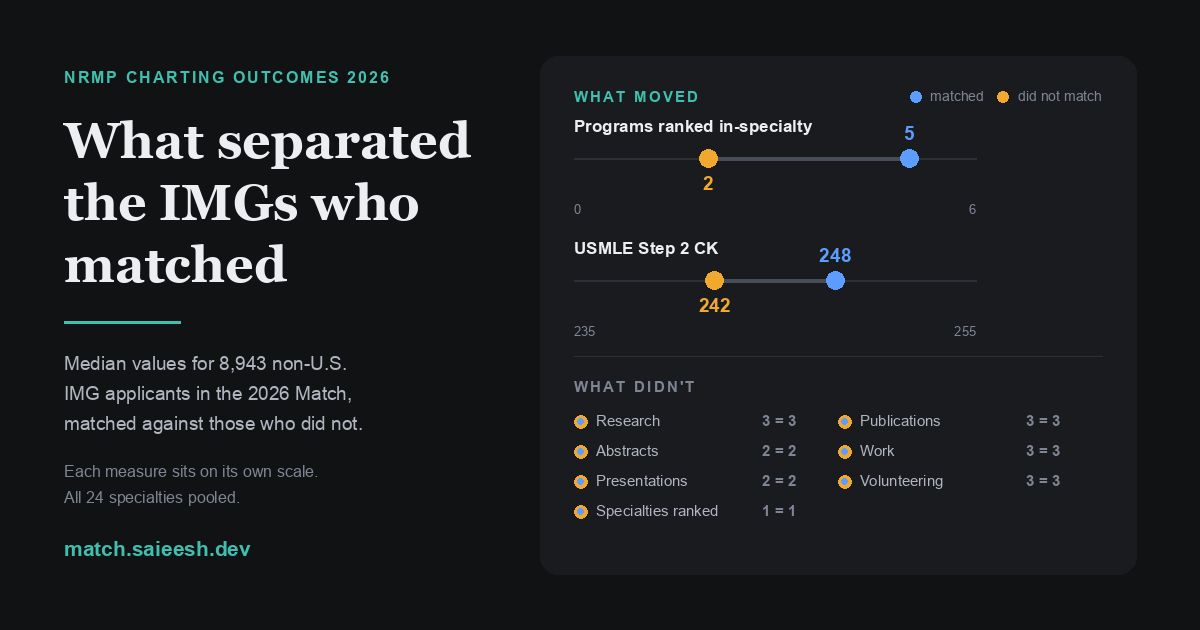
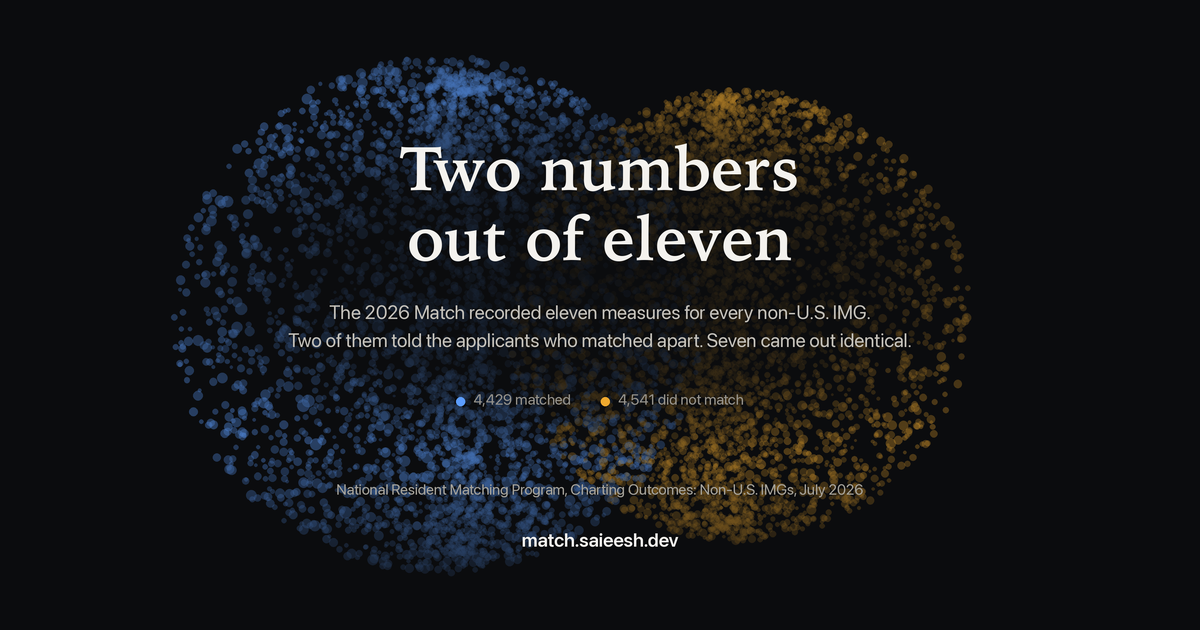
Rebuild the OG card as the hero, in the fonts the site actually renders
The card was set in Georgia and Arial. Neither reaches a visitor: the
site's --serif stack resolves to Iowan Old Style and --sans resolves to
SF Pro through -apple-system, so Georgia sat fourth and Arial seventh.
Both real faces are now loaded directly, Iowan Old Style Bold for the
headline and SF Pro Regular and Semibold for everything else.

The card also now shows what the page opens with rather than a chart
about it. The particle field is the same construction as src/hero.js:
8,970 points, one per consented applicant, on a Fibonacci sphere at the
same golden angle and radii, interpolated toward two separated masses
through the same perspective camera. Headline updated to eleven.

Drawn at 3x and downsampled. Drawing in RGBA mode is what lets 8,970
overlapping dots blend rather than overwrite; the scrim is computed
small and scaled up.

og:image:alt rewritten, since it still described the old dot plots.

diff --git a/index.html b/index.html
@@ -13,7 +13,7 @@
 <meta property="og:image" content="https://match.saieesh.dev/og-image.png">
 <meta property="og:image:width" content="1200">
 <meta property="og:image:height" content="630">
-<meta property="og:image:alt" content="Two dot plots showing the measures that separated matched from unmatched non-U.S. IMGs: programs ranked in-specialty, 5 versus 2, and USMLE Step 2 CK, 248 versus 242. Seven further measures, including research, publications and abstracts, are listed as identical in both groups.">
+<meta property="og:image:alt" content="The site's title card. A field of 8,970 dots, one per consented applicant, pulled into two masses: 4,429 blue for the applicants who matched and 4,541 amber for those who did not. The headline reads, Two numbers out of eleven.">
 <meta name="twitter:card" content="summary_large_image">
 <meta name="twitter:title" content="Two numbers out of eleven">
 <meta name="twitter:description" content="Every non-U.S. IMG in the 2026 Match, by preferred specialty. Two measures separated those who matched from those who did not.">
@@ -395,8 +395,8 @@ footer a{color:var(--ink-2)}
     <div class="shead">
       <h2>All 24 specialties, ranked</h2>
       <p>
-        <strong>Click any row to open the full distribution for that specialty: all eleven measures, matched
-        against unmatched, with quartiles and ranges wherever NRMP reports them. Sort by any column.</strong>
+        Click any row to open the full distribution for that specialty: all eleven measures, matched
+        against unmatched, with quartiles and ranges wherever NRMP reports them. Sort by any column.
       </p>
     </div>
 
@@ -419,7 +419,7 @@ footer a{color:var(--ink-2)}
 
     <div class="tablescroll">
       <table>
-        <caption class="vis-hidden">Non-U.S. IMG match outcomes by preferred specialty. <strong>Click a row for detail.</strong> </caption>
+        <caption class="vis-hidden">Non-U.S. IMG match outcomes by preferred specialty. Click a row for detail.</caption>
         <thead><tr id="specHead"></tr></thead>
         <tbody id="specBody"></tbody>
       </table>

diff --git a/src/template.html b/src/template.html
@@ -13,7 +13,7 @@
 <meta property="og:image" content="https://match.saieesh.dev/og-image.png">
 <meta property="og:image:width" content="1200">
 <meta property="og:image:height" content="630">
-<meta property="og:image:alt" content="Two dot plots showing the measures that separated matched from unmatched non-U.S. IMGs: programs ranked in-specialty, 5 versus 2, and USMLE Step 2 CK, 248 versus 242. Seven further measures, including research, publications and abstracts, are listed as identical in both groups.">
+<meta property="og:image:alt" content="The site's title card. A field of 8,970 dots, one per consented applicant, pulled into two masses: 4,429 blue for the applicants who matched and 4,541 amber for those who did not. The headline reads, Two numbers out of eleven.">
 <meta name="twitter:card" content="summary_large_image">
 <meta name="twitter:title" content="Two numbers out of eleven">
 <meta name="twitter:description" content="Every non-U.S. IMG in the 2026 Match, by preferred specialty. Two measures separated those who matched from those who did not.">

diff --git a/make-og-image.py b/make-og-image.py
@@ -1,137 +1,194 @@
-"""Open Graph card: the finding itself, drawn as small multiples.
+"""Open Graph card: the hero, rendered as a still.
 
-Two measures moved and seven did not. Each mover gets its own dot plot on its own
-labelled scale — no shared axis, no truncated bars, so the visual claim stays the
-honest one: these two separated, those seven landed on the same number.
+The card used to be a small-multiples chart in Georgia and Arial. Neither font
+appears on the site: the CSS stack resolves to Iowan Old Style for display and
+to SF Pro through -apple-system for everything else, so the card was set in
+two typefaces no visitor ever sees. It now uses the fonts the page actually
+renders with, and shows what the page actually opens with.
+
+The particle field is the same construction as src/hero.js: one point per
+consented applicant, 4,429 matched and 4,541 not, placed on a Fibonacci sphere
+and interpolated toward two separated masses. Same golden angle, same radii,
+same split distance, same perspective camera, so the still and the live hero
+are the same picture.
+
+Everything is drawn at SS times final size and downsampled, which is what gives
+the dots and the type their edges.
+
+    python3 make-og-image.py
 """
+import math
+import random
 from PIL import Image, ImageDraw, ImageFont
 
-W, H   = 1200, 630
-BG     = (17, 18, 20)
-PANEL  = (25, 27, 31)
-INK    = (236, 238, 242)
-INK2   = (176, 181, 192)
-INK3   = (126, 133, 147)
-ACCENT = (63, 191, 174)
-BLUE   = (92, 157, 255)
-AMBER  = (240, 169, 46)
-RULE   = (44, 47, 54)
+W, H = 1200, 630
+SS = 3                                   # supersample factor
+CW, CH = W * SS, H * SS
 
-SUPP = "/System/Library/Fonts/Supplemental/"
-serif = lambda s: ImageFont.truetype(SUPP + "Georgia Bold.ttf", s)
-sans  = lambda s: ImageFont.truetype(SUPP + "Arial.ttf", s)
-bold  = lambda s: ImageFont.truetype(SUPP + "Arial Bold.ttf", s)
+BG       = (11, 12, 14)
+INK      = (244, 242, 238)
+INK_SUB  = (195, 192, 185)
+INK_KEY  = (150, 147, 140)
+INK_META = (166, 163, 155)
+BLUE     = (92, 157, 255)
+AMBER    = (240, 169, 46)
 
-img = Image.new("RGB", (W, H), BG)
+IOWAN = "/System/Library/Fonts/Supplemental/Iowan Old Style.ttc"
+SFNS  = "/System/Library/Fonts/SFNS.ttf"
+
+
+def serif(size):
+    """Iowan Old Style Bold — first face in the site's --serif stack."""
+    return ImageFont.truetype(IOWAN, int(size * SS), index=1)
+
+
+def sans(size, weight="Regular"):
+    """SF Pro, which is what -apple-system resolves to on the site."""
+    f = ImageFont.truetype(SFNS, int(size * SS))
+    try:
+        f.set_variation_by_name(weight)
+    except Exception:
+        pass
+    return f
+
+
+# ───────────────────────── the particle field ─────────────────────────
+N_MATCHED, N_UNMATCHED = 4429, 4541
+N = N_MATCHED + N_UNMATCHED
+SPLIT, R_ONE, R_TWO = 6.4, 7.8, 4.9
+GOLDEN = 2.399963229728653
+MIX = 0.58            # 0 = one mixed cloud, 1 = two separated masses
+ROT_Y = 0.28          # a little turn, so it does not read as a flat disc
+
+
+def fib(i, n, radius):
+    y = 1 - (i / (n - 1)) * 2
+    r = math.sqrt(max(0.0, 1 - y * y))
+    th = i * GOLDEN
+    return [math.cos(th) * r * radius, y * radius, math.sin(th) * r * radius]
+
+
+def build_points():
+    rnd = random.Random(20260809)
+    flags = [1] * N_MATCHED + [0] * (N - N_MATCHED)
+    rnd.shuffle(flags)
+
+    pts = []
+    mi = ui = 0
+    for i in range(N):
+        a = fib(i, N, R_ONE)
+        if flags[i]:
+            b = fib(mi, N_MATCHED, R_TWO); b[0] -= SPLIT; mi += 1
+        else:
+            b = fib(ui, N_UNMATCHED, R_TWO); b[0] += SPLIT; ui += 1
+        p = [a[k] + (b[k] - a[k]) * MIX for k in range(3)]
+        pts.append((p, flags[i], 0.7 + rnd.random() * 1.25))
+    return pts
+
+
+def draw_field(img):
+    d = ImageDraw.Draw(img, "RGBA")      # RGBA mode makes ellipse() alpha-blend
+    cam_z, fov = 17.5, 52.0
+    f = 1.0 / math.tan(math.radians(fov) / 2)
+    aspect = W / H
+    cy, sy = math.cos(ROT_Y), math.sin(ROT_Y)
+
+    projected = []
+    for (p, matched, size) in build_points():
+        x, y, z = p
+        x, z = x * cy + z * sy, -x * sy + z * cy      # rotate about Y
+        mvz = z - cam_z
+        depth = -mvz
+        if depth <= 0.2:
+            continue
+        sx = ((f / aspect) * x / depth * 0.5 + 0.5) * CW
+        sy_ = (1 - (f * y / depth * 0.5 + 0.5)) * CH
+        r = size * (118.0 / depth) * 0.5 * SS * 0.62
+        t = min(max((depth - 6.0) / 22.0, 0.0), 1.0)
+        alpha = int(255 * (0.58 + (0.13 - 0.58) * t))
+        projected.append((depth, sx, sy_, r, matched, alpha))
+
+    projected.sort(key=lambda q: -q[0])               # far to near
+    for _, sx, sy_, r, matched, alpha in projected:
+        col = BLUE if matched else AMBER
+        d.ellipse([sx - r, sy_ - r, sx + r, sy_ + r], fill=col + (alpha,))
+
+
+# ───────────────────────── the scrim ─────────────────────────
+def scrim():
+    """The hero's veil: a radial mask over the centre plus a top/bottom fade.
+
+    Computed small and scaled up; both gradients are smooth so nothing is lost
+    and it avoids evaluating six million pixels in Python.
+    """
+    sw, sh = 240, 126
+    layer = Image.new("L", (sw, sh), 0)
+    px = layer.load()
+    for j in range(sh):
+        v = j / (sh - 1)
+        # vertical: .75 at the top, clear through the middle, .90 at the foot
+        if v < 0.22:
+            lin = 0.75 * (1 - v / 0.22)
+        elif v > 0.60:
+            lin = 0.94 * ((v - 0.60) / 0.40)
+        else:
+            lin = 0.0
+        for i in range(sw):
+            u = i / (sw - 1)
+            dx = (u - 0.50) / 0.58
+            dy = (v - 0.44) / 0.46
+            rr = math.sqrt(dx * dx + dy * dy)
+            if rr >= 1.0:
+                rad = 0.0
+            elif rr <= 0.38:
+                rad = 0.93 - (0.93 - 0.78) * (rr / 0.38)
+            elif rr <= 0.66:
+                rad = 0.78 - (0.78 - 0.28) * ((rr - 0.38) / 0.28)
+            else:
+                rad = 0.28 * (1 - (rr - 0.66) / 0.34)
+            px[i, j] = int(255 * min(1.0, max(lin, rad)))
+    return layer.resize((CW, CH), Image.LANCZOS)
+
+
+# ───────────────────────── compose ─────────────────────────
+img = Image.new("RGB", (CW, CH), BG)
+draw_field(img)
+img = Image.composite(Image.new("RGB", (CW, CH), BG), img, scrim())
 d = ImageDraw.Draw(img)
 
 
-def tracking(xy, text, font, fill, extra=1.6):
-    """Letter-spaced small caps; PIL has no tracking of its own."""
-    x, y = xy
-    for ch in text:
-        d.text((x, y), ch, font=font, fill=fill)
-        x += d.textlength(ch, font=font) + extra
-    return x
+def centered(y, s, font, fill):
+    w = d.textlength(s, font=font)
+    d.text(((CW - w) / 2, y * SS), s, font=font, fill=fill)
 
 
-# ─────────────────────────── left column ───────────────────────────
-PAD = 64
-tracking((PAD, 68), "NRMP CHARTING OUTCOMES 2026", bold(16), ACCENT, 2.0)
+HEAD = serif(62)
+centered(126, "Two numbers", HEAD, INK)
+centered(196, "out of eleven", HEAD, INK)
 
-for i, line in enumerate(["What separated", "the IMGs who", "matched"]):
-    d.text((PAD, 112 + i * 62), line, font=serif(50), fill=INK)
+SUB = sans(19.5)
+centered(300, "The 2026 Match recorded eleven measures for every non-U.S. IMG.", SUB, INK_SUB)
+centered(328, "Two of them told the applicants who matched apart. Seven came out identical.", SUB, INK_SUB)
 
-d.line([(PAD, 322), (PAD + 116, 322)], fill=ACCENT, width=3)
+# cohort key, laid out as one centred row
+KEY = sans(15)
+items = [("4,429 matched", BLUE), ("4,541 did not match", AMBER)]
+gap, dot, pad = 30, 9, 8
+total = sum(dot + pad + d.textlength(t, font=KEY) / SS for t, _ in items) + gap
+x = (W - total) / 2
+for label, col in items:
+    cy = 392 + 5
+    d.ellipse([x * SS, cy * SS, (x + dot) * SS, (cy + dot) * SS], fill=col)
+    d.text(((x + dot + pad) * SS, 390 * SS), label, font=KEY, fill=INK_KEY)
+    x += dot + pad + d.textlength(label, font=KEY) / SS + gap
 
-for i, line in enumerate([
-    "Median values for 8,943 non-U.S.",
-    "IMG applicants in the 2026 Match,",
-    "matched against those who did not.",
-]):
-    d.text((PAD, 352 + i * 30), line, font=sans(19), fill=INK2)
+META = sans(15)
+centered(480, "National Resident Matching Program, Charting Outcomes: Non-U.S. IMGs, July 2026",
+         META, INK_META)
 
-for i, line in enumerate([
-    "Each measure sits on its own scale.",
-    "All 24 specialties pooled.",
-]):
-    d.text((PAD, 462 + i * 26), line, font=sans(16), fill=INK3)
+URL = sans(19, "Semibold")
+centered(528, "match.saieesh.dev", URL, INK)
 
-d.text((PAD, 536), "match.saieesh.dev", font=bold(21), fill=ACCENT)
-
-# ─────────────────────────── right panel ───────────────────────────
-PX0, PY0, PX1, PY1 = 540, 56, 1136, 574
-d.rounded_rectangle([PX0, PY0, PX1, PY1], radius=18, fill=PANEL)
-
-IN = PX0 + 34
-TRACK_W = 402
-DOT = 9
-
-
-def dotplot(y, label, lo, hi, not_matched, matched, fmt="{:g}"):
-    """One measure on its own scale: amber = did not match, blue = matched."""
-    d.text((IN, y), label, font=bold(17), fill=INK)
-
-    ty = y + 42
-    x0, x1 = IN, IN + TRACK_W
-    d.line([(x0, ty), (x1, ty)], fill=RULE, width=2)
-
-    pos = lambda v: x0 + (v - lo) / (hi - lo) * TRACK_W
-    a, b = pos(not_matched), pos(matched)
-
-    # the gap itself, drawn brighter than the track
-    d.line([(a, ty), (b, ty)], fill=(70, 76, 88), width=4)
-
-    for cx, col in ((a, AMBER), (b, BLUE)):
-        d.ellipse([cx - DOT, ty - DOT, cx + DOT, ty + DOT], fill=col)
-
-    # value labels, nudged apart so they never collide
-    for cx, col, val, above in ((a, AMBER, not_matched, False), (b, BLUE, matched, True)):
-        s = fmt.format(val)
-        f = bold(19)
-        w = d.textlength(s, font=f)
-        d.text((cx - w / 2, ty - 36 if above else ty + 14), s, font=f, fill=col)
-
-    # scale ends
-    d.text((x0, ty + 44), fmt.format(lo), font=sans(13), fill=INK3)
-    e = fmt.format(hi)
-    d.text((x1 - d.textlength(e, font=sans(13)), ty + 44), e, font=sans(13), fill=INK3)
-
-
-tracking((IN, PY0 + 32), "WHAT MOVED", bold(15), ACCENT, 2.2)
-
-# colour key, right-aligned on the panel header row
-lx = PX1 - 34
-for label, col in (("did not match", AMBER), ("matched", BLUE)):
-    lf = sans(14)
-    lw = d.textlength(label, font=lf)
-    d.text((lx - lw, PY0 + 32), label, font=lf, fill=INK3)
-    d.ellipse([lx - lw - 20, PY0 + 35, lx - lw - 9, PY0 + 46], fill=col)
-    lx -= lw + 34
-
-dotplot(PY0 + 60,  "Programs ranked in-specialty", 0, 6, 2, 5)
-dotplot(PY0 + 182, "USMLE Step 2 CK", 235, 255, 242, 248)
-
-d.line([(IN, PY0 + 300), (PX1 - 34, PY0 + 300)], fill=RULE, width=1)
-tracking((IN, PY0 + 322), "WHAT DIDN'T", bold(15), INK3, 2.2)
-
-flat = [
-    ("Research", 3), ("Publications", 3),
-    ("Abstracts", 2), ("Work", 3),
-    ("Presentations", 2), ("Volunteering", 3),
-    ("Specialties ranked", 1),
-]
-col_w = 264
-for i, (name, v) in enumerate(flat):
-    cx = IN + (i % 2) * col_w
-    cy = PY0 + 356 + (i // 2) * 30
-    # both cohorts landed on the same number: amber ring, blue centre
-    d.ellipse([cx, cy + 3, cx + 13, cy + 16], fill=AMBER)
-    d.ellipse([cx + 3.5, cy + 6.5, cx + 9.5, cy + 12.5], fill=BLUE)
-    d.text((cx + 22, cy), name, font=sans(15), fill=INK2)
-    val = f"{v} = {v}"
-    vf = bold(15)
-    d.text((cx + col_w - 42 - d.textlength(val, font=vf), cy), val, font=vf, fill=INK3)
-
+img = img.resize((W, H), Image.LANCZOS)
 img.save("og-image.png", optimize=True)
 print("og-image.png", img.size)

diff --git a/progress.md b/progress.md
@@ -100,6 +100,34 @@ non-affiliation disclaimer. Contact if ever needed: datarequest@nrmp.org.
 
 ## Log
 
+### 2026-08-09 — OG card rebuilt as the hero, in the site's real fonts
+
+- **The old card was set in two typefaces the site never renders.** It used
+  Georgia and Arial, but `--serif` resolves to Iowan Old Style and `--sans`
+  resolves to SF Pro through `-apple-system`. Georgia is fourth in the serif
+  stack and Arial is seventh in the sans stack, so neither reached a visitor.
+  Both are now loaded directly: `Iowan Old Style.ttc` index 1 for Bold, and
+  `SFNS.ttf` with `set_variation_by_name` for Regular and Semibold.
+- **The card is now the hero rather than a chart about it.** Same construction
+  as `src/hero.js`: 8,970 points, one per consented applicant, Fibonacci sphere
+  at the same golden angle and radii, interpolated to `MIX = 0.58` toward two
+  masses split by 6.4, through the same 52-degree camera at z = 17.5. Headline
+  updated to "Two numbers out of eleven".
+- Drawn at 3x and downsampled. `ImageDraw.Draw(img, "RGBA")` is what makes 8,970
+  overlapping dots alpha-blend instead of overwriting each other; the scrim is
+  computed at 240x126 and scaled up, because evaluating it per pixel at 3600x1890
+  in Python is not worth the seconds.
+- The teal accent the rest of the build dropped in July is gone from the card too.
+- `og:image:alt` rewrote: it still described the old dot plots.
+- **Cache note.** The filename did not change, so anywhere the URL has already
+  been shared will keep serving the old card until forced. LinkedIn Post
+  Inspector, Facebook Sharing Debugger and X Card Validator each need a manual
+  refetch.
+- `program-view.html` still points at this same card. Its own title is "The
+  screen on the other side", so the image and the headline do not agree. Left
+  alone for now; a second card would fix it.
+
+
 ### 2026-08-09 — Fact-check against the source PDF, eleven measures, light hero, full screen
 
 - **Fact-checked every published claim against the original 255-page NRMP PDF**
